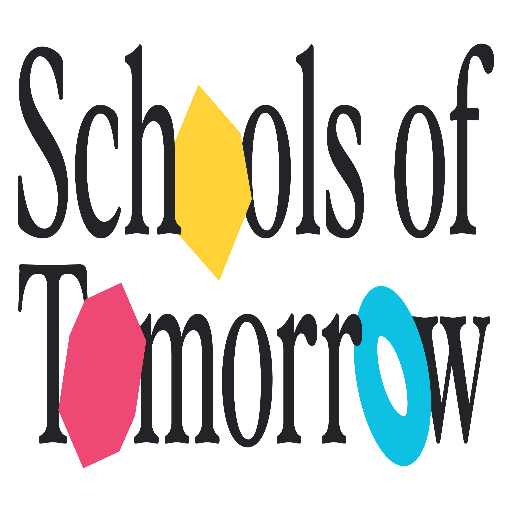
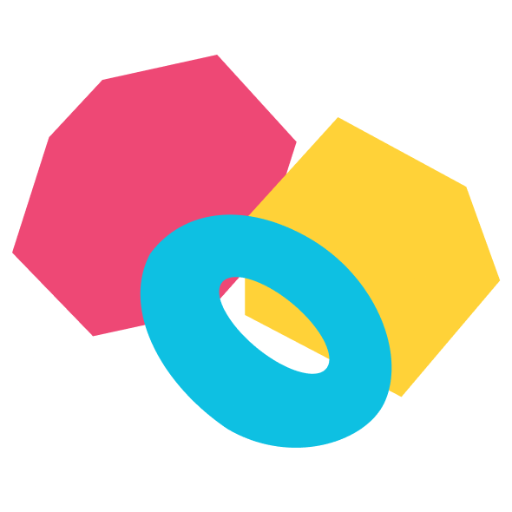
update

diff --git a/src/app/page.js b/src/app/page.js
@@ -44,3 +44,15 @@ export default function Home() {
     </main>
   )
 }
+
+export async function generateMetadata() {
+
+  return {
+    title: 'Schools of Tomorrow',
+    description: 'Coming Soon',
+    openGraph: {
+      images: ['/meta_sot_logo.png']
+    }
+  };
+}
+
